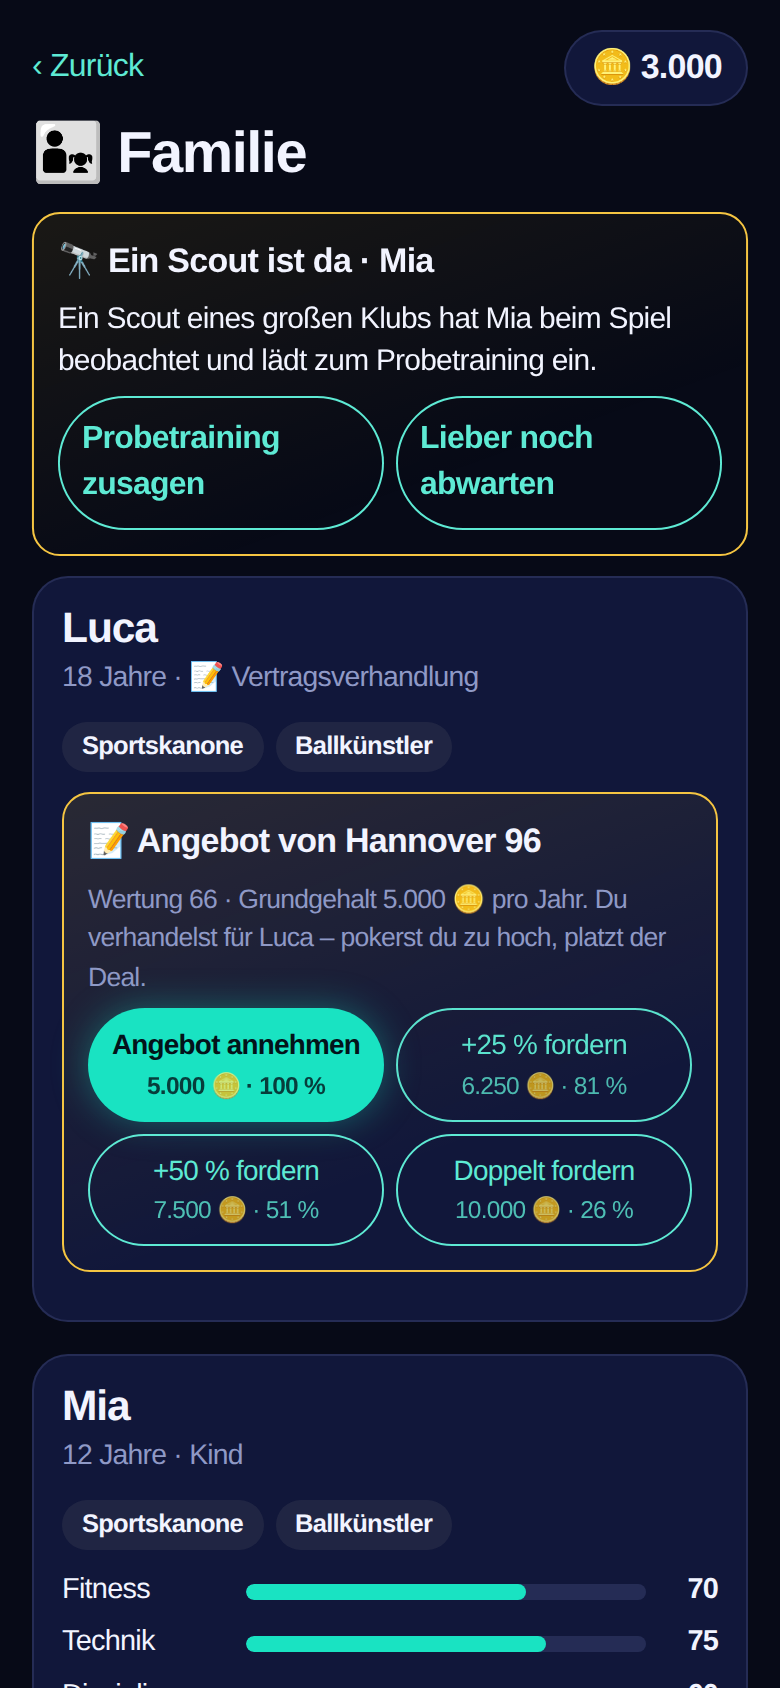
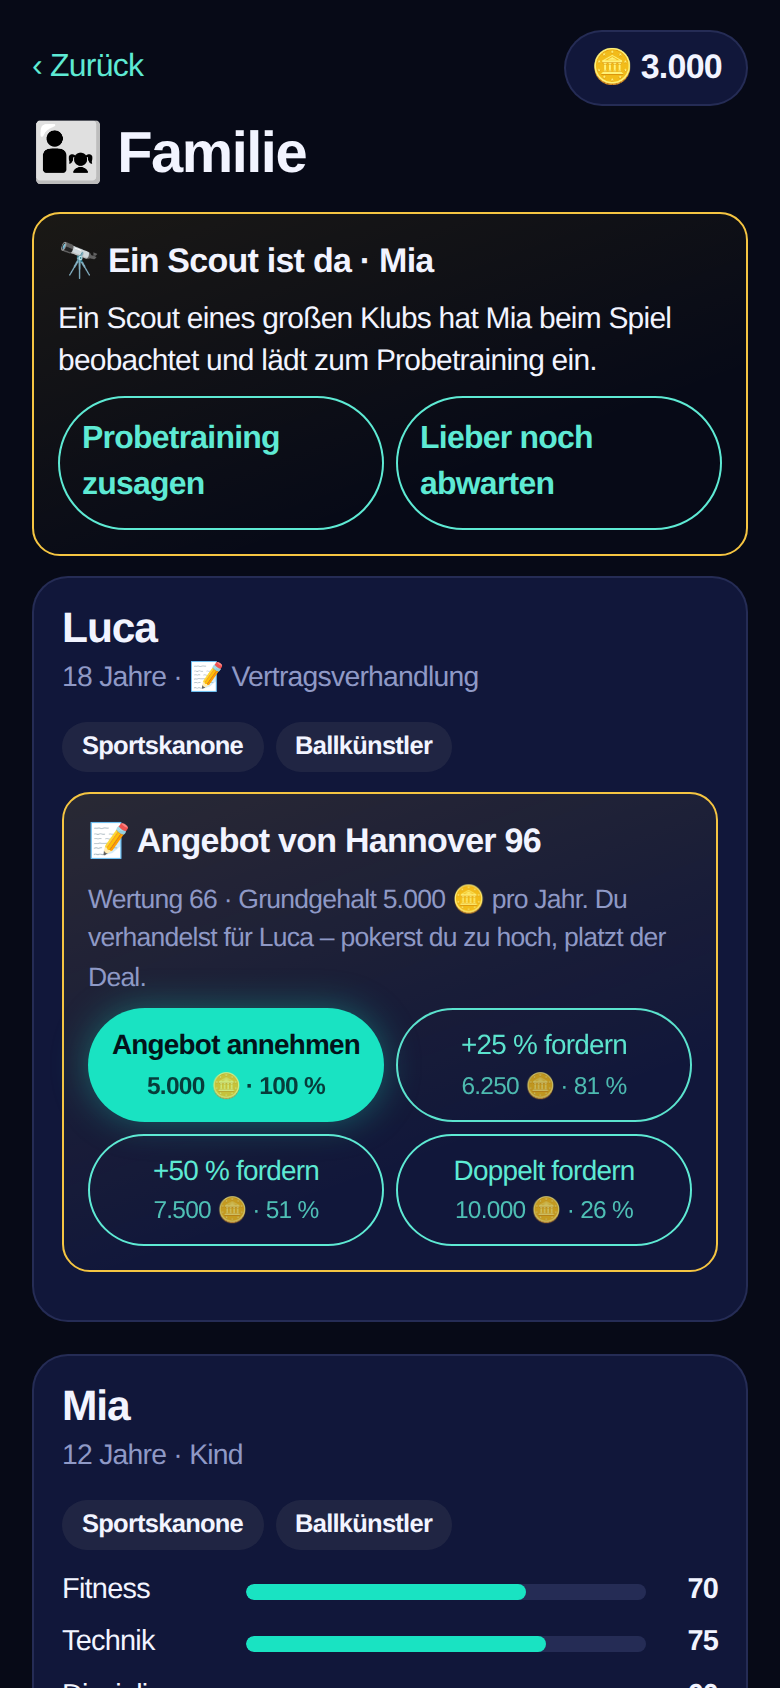
Fähigkeiten per Gedrückthalten lernen, Ergebnis-Anzeige bei der Gehaltsverhandlung
- Fähigkeitenbaum: halten (0,9 s) mit Ladebalken, steigendem Ton, Vibration und Effekt beim Freischalten; kurzes Tippen lernt nichts
- Kinder-Verhandlung: kurze Spannungsphase, dann Ergebnis (Deal, abgelehnt, geplatzt) als großes Fenster mit Sound
- Update-Banner-Eintrag

Claude-Session: https://claude.ai/code/session_01K9eFbXy9JmeBP7QiJd7nzK

diff --git a/src/components/FamilyPanel.tsx b/src/components/FamilyPanel.tsx
@@ -1,6 +1,9 @@
 import { getClub } from '../data/leagues';
 import { useClub } from '../clubStore';
+import { useEffect, useState } from 'react';
 import { getClubState, setClubState } from '../clubStore';
+import { play } from '../sound';
+import { motionReduced } from '../settings';
 import {
   DEMANDS,
   demandChance,
@@ -46,6 +49,30 @@ export default function FamilyPanel({ career, onChange, onClose }: { career: Car
   const children = h?.children ?? [];
   const idle = career.phase === 'retired' && (!career.coach || career.coach.phase === 'done');
   const report = h?.report;
+  // Verhandlung: kurz Spannung („Der Verein überlegt …“), dann das Ergebnis groß anzeigen.
+  const [deal, setDeal] = useState<{ phase: 'wait' | 'done'; name: string; demand: string; tone: 'good' | 'bad' | 'angry'; title: string; text: string } | null>(null);
+  const negotiate = (childId: string, factor: number, label: string) => {
+    const before = career.household!.children.find((x) => x.id === childId)!;
+    const next = negotiateKid(career, childId, factor);
+    const after = next.household!.children.find((x) => x.id === childId)!;
+    const ok = after.status === 'pro' && !after.angry;
+    const tone = ok ? 'good' : after.angry ? 'angry' : 'bad';
+    const title = ok ? '✅ Deal!' : after.angry ? '💔 Deal geplatzt' : '❌ Abgelehnt';
+    const text = ok
+      ? `${getClub(after.clubId!).name} akzeptiert „${label}“. ${before.name} wird Profi und verdient ${fmt(Math.round(kidWage(after.ovr!) * (after.wageFactor ?? 1)))} 🪙 pro Jahr.`
+      : (after.log[0] ?? '').replace(/^[^\s]+\s/, '');
+    setDeal({ phase: 'wait', name: before.name, demand: label, tone, title, text });
+    play('packShake');
+    onChange(next);
+  };
+  useEffect(() => {
+    if (deal?.phase !== 'wait') return;
+    const t = setTimeout(() => {
+      setDeal((d) => (d ? { ...d, phase: 'done' } : d));
+      play(deal.tone === 'good' ? 'fanfare' : 'fall');
+    }, motionReduced() ? 100 : 1600);
+    return () => clearTimeout(t);
+  }, [deal]);
 
   return (
     <div className="overlay fam-overlay" role="dialog" aria-modal="true" aria-label="Familie">
@@ -55,6 +82,27 @@ export default function FamilyPanel({ career, onChange, onClose }: { career: Car
           <span className="hub-coins">🪙 {fmt(club.coins)}</span>
         </header>
         <h2 className="fam-title">👨👧 Familie</h2>
+
+        {deal && (
+          <div className="life-pop" role="dialog" aria-modal="true" aria-label="Ergebnis der Verhandlung">
+            <div className={`life-card deal ${deal.phase === 'done' ? deal.tone : ''}`}>
+              {deal.phase === 'wait' ? (
+                <>
+                  <div className="life-emoji deal-phone" aria-hidden="true">📞</div>
+                  <h2>Der Verein überlegt …</h2>
+                  <p>Deine Forderung für {deal.name}: <b>{deal.demand}</b></p>
+                </>
+              ) : (
+                <>
+                  <div className="life-emoji" aria-hidden="true">{deal.tone === 'good' ? '🤝' : deal.tone === 'angry' ? '💔' : '🚪'}</div>
+                  <h2>{deal.title}</h2>
+                  <p>{deal.text}</p>
+                  <button className="btn primary big" onClick={() => setDeal(null)}>Weiter</button>
+                </>
+              )}
+            </div>
+          </div>
+        )}
 
         {idle && children.length > 0 && (
           <button className="btn primary big cs-go fam-year" onClick={() => onChange(restYear(career))}>
@@ -110,7 +158,7 @@ export default function FamilyPanel({ career, onChange, onClose }: { career: Car
                   <small>Wertung {child.ovr} · Grundgehalt {fmt(child.offer.base)} 🪙 pro Jahr. Du verhandelst für {child.name} – pokerst du zu hoch, platzt der Deal.</small>
                   <div className="kid-demands">
                     {DEMANDS.map((d) => (
-                      <button key={d.factor} className={`btn ${d.factor === 1 ? 'primary' : 'secondary'} small`} onClick={() => onChange(negotiateKid(career, child.id, d.factor))}>
+                      <button key={d.factor} className={`btn ${d.factor === 1 ? 'primary' : 'secondary'} small`} onClick={() => negotiate(child.id, d.factor, d.label)}>
                         {d.label}
                         <small>{fmt(Math.round(child.offer!.base * d.factor))} 🪙 · {Math.round(demandChance(child, d.factor) * 100)} %</small>
                       </button>

diff --git a/src/components/SkillTree.tsx b/src/components/SkillTree.tsx
@@ -17,8 +17,9 @@ import {
   unlockSkill,
   type Skill,
 } from '../game/skills';
-import { useState } from 'react';
-import { play } from '../sound';
+import { useEffect, useRef, useState } from 'react';
+import { play, playCharge } from '../sound';
+import { motionReduced } from '../settings';
 import type { Career } from '../game/types';
 
 /** Auswahl des Spielertyps (einmal pro Karriere). */
@@ -70,12 +71,37 @@ export default function SkillTree({ career, onChange, onClose }: { career: Caree
   const free = freePoints(p);
   const bonuses = bonusSummary(skillMods(p));
   const [just, setJust] = useState<string | null>(null);
+  // Gedrückt halten zum Lernen: verhindert Fehlklicks und fühlt sich nach „Aufladen“ an.
+  const [holding, setHolding] = useState<string | null>(null);
+  const timer = useRef<number | null>(null);
+  const stopSound = useRef<() => void>(() => {});
+  const holdMs = motionReduced() ? 450 : 900;
 
   const learn = (id: string) => {
     setJust(id);
     play('unlock');
+    play('levelUp');
+    navigator.vibrate?.(40);
     onChange(unlockSkill(career, id));
   };
+  const startHold = (id: string) => {
+    if (timer.current) return;
+    setHolding(id);
+    stopSound.current = playCharge(holdMs);
+    timer.current = window.setTimeout(() => {
+      timer.current = null;
+      setHolding(null);
+      learn(id);
+    }, holdMs);
+  };
+  const cancelHold = () => {
+    if (!timer.current) return;
+    clearTimeout(timer.current);
+    timer.current = null;
+    stopSound.current();
+    setHolding(null);
+  };
+  useEffect(() => () => { if (timer.current) clearTimeout(timer.current); }, []);
 
   const node = (s: Skill, wide = false) => {
     const rank = rankOf(p, s.id);
@@ -86,9 +112,16 @@ export default function SkillTree({ career, onChange, onClose }: { career: Caree
     return (
       <button
         key={s.id}
-        className={`sk-skill ${owned ? 'owned' : can ? 'can' : rank > 0 ? 'partial' : 'locked'} ${isMaster(s) ? 'master' : s.tier >= 4 && !s.maxRank ? 'elite' : ''} ${wide ? 'wide' : ''} ${just === s.id ? 'just' : ''}`}
+        className={`sk-skill ${owned ? 'owned' : can ? 'can' : rank > 0 ? 'partial' : 'locked'} ${isMaster(s) ? 'master' : s.tier >= 4 && !s.maxRank ? 'elite' : ''} ${wide ? 'wide' : ''} ${just === s.id ? 'just' : ''} ${holding === s.id ? 'holding' : ''}`}
+        style={{ ['--hold' as string]: `${holdMs}ms` }}
         disabled={!can}
-        onClick={() => learn(s.id)}
+        onPointerDown={(e) => { if (can && e.button === 0) startHold(s.id); }}
+        onPointerUp={cancelHold}
+        onPointerLeave={cancelHold}
+        onPointerCancel={cancelHold}
+        onKeyDown={(e) => { if (can && (e.key === 'Enter' || e.key === ' ') && !e.repeat) { e.preventDefault(); startHold(s.id); } }}
+        onKeyUp={(e) => { if (e.key === 'Enter' || e.key === ' ') cancelHold(); }}
+        onContextMenu={(e) => e.preventDefault()}
         aria-label={`${s.name}: ${s.text}. ${owned ? 'Freigeschaltet' : reason ?? `Kostet ${s.cost} Punkte`}`}
       >
         <span className="sk-icon" aria-hidden="true">{s.icon}</span>
@@ -99,7 +132,8 @@ export default function SkillTree({ career, onChange, onClose }: { career: Caree
             {Array.from({ length: max }, (_, i) => <i key={i} className={i < rank ? 'on' : ''} />)}
           </span>
         )}
-        <em>{owned ? '✓ aktiv' : can ? `${s.cost} FP · lernen` : reason === `${s.cost} FP nötig` ? `${s.cost} FP` : `🔒 ${reason}`}</em>
+        {can && <span className="sk-hold" aria-hidden="true" />}
+        <em>{owned ? '✓ aktiv' : can ? (holding === s.id ? 'Halten …' : `${s.cost} FP · gedrückt halten`) : reason === `${s.cost} FP nötig` ? `${s.cost} FP` : `🔒 ${reason}`}</em>
       </button>
     );
   };

diff --git a/src/styles.css b/src/styles.css
@@ -1599,3 +1599,21 @@ table.stats { width: 100%; border-collapse: collapse; font-size: .88rem; font-va
 .kid-demands .btn { display: grid; gap: 2px; height: auto; padding: 8px 10px; white-space: normal; }
 .kid-demands .btn small { color: inherit; opacity: .8; font-size: .72rem; }
 .kid-event { margin: 10px 0; }
+
+/* Fähigkeiten: gedrückt halten zum Lernen */
+.sk-skill { position: relative; overflow: hidden; user-select: none; -webkit-user-select: none; -webkit-touch-callout: none; touch-action: manipulation; }
+.sk-hold { position: absolute; left: 0; bottom: 0; height: 100%; width: 0; background: linear-gradient(90deg, rgba(255, 196, 0, .05), rgba(255, 196, 0, .28)); pointer-events: none; transition: width .15s ease-out; z-index: 0; }
+.sk-skill > :not(.sk-hold) { position: relative; z-index: 1; }
+.sk-skill.holding .sk-hold { width: 100%; transition: width var(--hold, .9s) linear; }
+.sk-skill.holding { transform: scale(.97); box-shadow: 0 0 22px rgba(255, 196, 0, .45); transition: transform var(--hold, .9s) ease-in, box-shadow var(--hold, .9s) ease-in; }
+.sk-skill.just::after { content: ''; position: absolute; inset: 0; border-radius: inherit; box-shadow: inset 0 0 0 3px var(--gold), inset 0 0 40px rgba(255, 196, 0, .6); animation: sk-burst .8s ease-out forwards; pointer-events: none; }
+@keyframes sk-burst { 0% { opacity: 1; } 100% { opacity: 0; } }
+.reduce-motion .sk-skill.just::after { animation: none; }
+
+/* Verhandlungs-Ergebnis */
+.life-card.deal.good { border-color: #3ddc97; box-shadow: 0 0 40px rgba(61, 220, 151, .35); }
+.life-card.deal.bad { border-color: #f5c542; }
+.life-card.deal.angry { border-color: #ff7b7b; box-shadow: 0 0 40px rgba(229, 72, 77, .35); }
+.deal-phone { animation: ring .5s ease-in-out infinite; }
+@keyframes ring { 0%, 100% { transform: rotate(0); } 25% { transform: rotate(-14deg); } 75% { transform: rotate(14deg); } }
+.reduce-motion .deal-phone { animation: none; }

diff --git a/src/sound.ts b/src/sound.ts
@@ -179,6 +179,37 @@ export function play(id: SoundId): void {
   }
 }
 
+/** Aufladeton beim Gedrückthalten (steigt an). Gibt eine Funktion zum Abbrechen zurück. */
+export function playCharge(ms: number): () => void {
+  if (!getSettings().sound) return () => {};
+  const c = audio();
+  if (!c) return () => {};
+  try {
+    const t0 = c.currentTime;
+    const osc = c.createOscillator();
+    const g = c.createGain();
+    osc.type = 'triangle';
+    osc.frequency.setValueAtTime(260, t0);
+    osc.frequency.exponentialRampToValueAtTime(980, t0 + ms / 1000);
+    g.gain.setValueAtTime(0.0001, t0);
+    g.gain.exponentialRampToValueAtTime(0.09, t0 + 0.08);
+    osc.connect(g).connect(master!);
+    osc.start(t0);
+    osc.stop(t0 + ms / 1000 + 0.05);
+    return () => {
+      try {
+        g.gain.cancelScheduledValues(c.currentTime);
+        g.gain.setTargetAtTime(0.0001, c.currentTime, 0.03);
+        osc.stop(c.currentTime + 0.12);
+      } catch {
+        // schon vorbei
+      }
+    };
+  } catch {
+    return () => {};
+  }
+}
+
 /** Leiser Klick bei jedem Knopfdruck (einmal im App-Start registrieren). */
 export function installClickSound(): () => void {
   const onDown = (e: PointerEvent) => {

diff --git a/src/data/updates.ts b/src/data/updates.ts
@@ -19,6 +19,15 @@ export const RETIRED_IDS = ['2026-10-05-sounds'];
 
 export const UPDATES: UpdateNote[] = [
   {
+    id: '2026-10-07-halten',
+    date: '07.10.2026',
+    title: 'Gedrückt halten & Verhandlungs-Ergebnis',
+    items: [
+      '⭐ Fähigkeiten lernst du jetzt durch Gedrückthalten: Die Karte lädt sich gold auf, ein Ton steigt an – und dann knallt es. Keine Fehlklicks mehr.',
+      '📞 Gehaltsverhandlung fürs Kind: Nach deiner Forderung klingelt das Telefon („Der Verein überlegt …“) – dann siehst du groß, ob der Deal steht, abgelehnt wurde oder ganz geplatzt ist.',
+    ],
+  },
+  {
     id: '2026-10-07-trainer-kinder',
     date: '07.10.2026',
     title: 'Trainer mit Haltung & Kinder mit eigenem Kopf',
